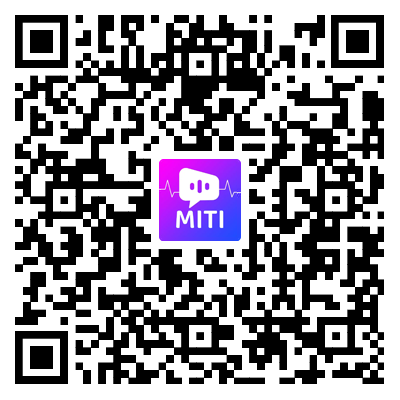
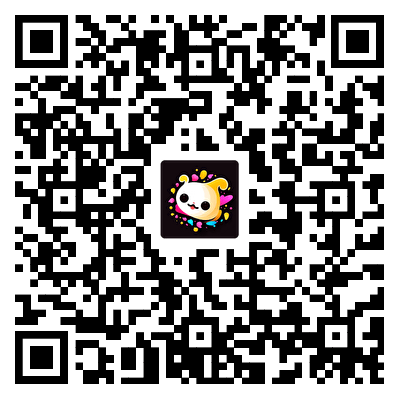
更新

diff --git a/index.html b/index.html
@@ -3,9 +3,9 @@
 	<head>
 		<meta charset="UTF-8">
 		<meta name="viewport" content="width=device-width,initial-scale=1.0,maximum-scale=1.0,minimum-scale=1.0,user-scalable=no">
-		<title>MiTi下载地址</title>
-		<meta name="description" content="MiTi">
-		<meta name="keywords" content="MiTi">
+		<title>趣玩下载地址</title>
+		<meta name="description" content="趣玩">
+		<meta name="keywords" content="趣玩">
 		<script src="js/jquery.min.js" type="text/javascript" charset="utf-8"></script>
 		<link rel="stylesheet" type="text/css" href="css/index.css" />
 		<link rel="stylesheet" type="text/css" href="css/animate.compat.css" />
@@ -24,13 +24,13 @@
 	*修改下面内容即可修改页面信息
 	*/
 		var logo_app = "image/logo.webp";//appLogo
-		var title_app = "MiTi";//app名称
+		var title_app = "趣玩";//app名称
 		var shouji_app = "image/app_image.webp";//电脑端app图片展示
-		var banb_app = "版本：1.1.8丨大小：88M  ";//版本信息
-		var fabu_app = "发布时间：2023-11-08丨 MiTi";//发布信息
+		var banb_app = "版本：1.0.0丨大小：88M  ";//版本信息
+		var fabu_app = "发布时间：2023-11-08丨 趣玩";//发布信息
 		var dibu_app = "Copyright © All Rights Reserved 2023-2025";//底部版权信息
 		var ewm_app = "image/download_image.png";//app下载二维码地址
-		var xiaz_app = "https://miki-1257246693.cos.ap-nanjing.myqcloud.com/app-release.apk";//app下载地址
+		var xiaz_app = "https://raw.githubusercontent.com/Chenhuakang/quwan/main/app/app_release.apk";//app下载地址
 		var text_app = "在线交友，语音聊天、唱歌表白、游戏互动 ";//app介绍
 
 				var win_width = $(window).width();
